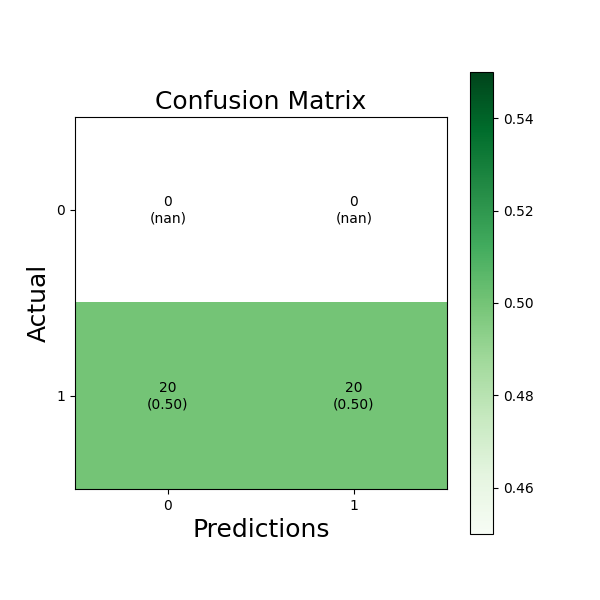
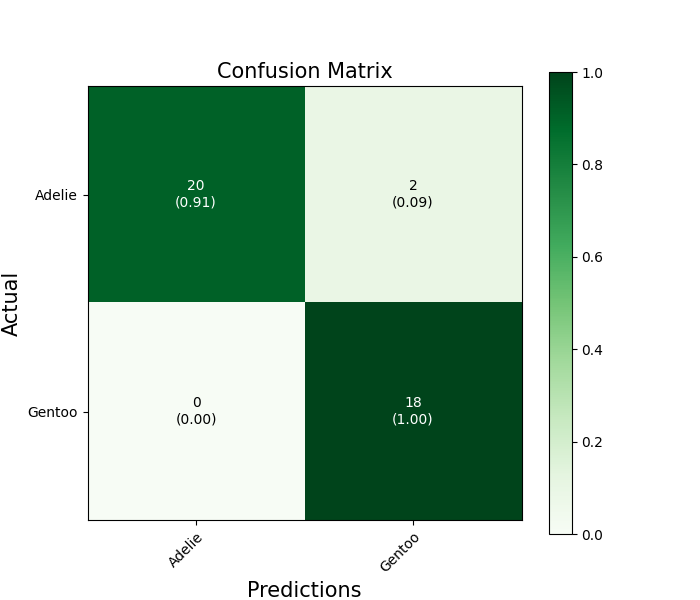
Updated generate_conf_mat function

diff --git a/tasks/task3/network.py b/tasks/task3/network.py
@@ -1,6 +1,6 @@
 import numpy as np
 
-from layer import *
+from task3.layer import *
 
 
 class Network:
@@ -32,14 +32,12 @@ class Network:
 
                 # Forward step
 
-                # Layer FNet
-                f_net = list()
+                # FNet first layer
+                f_net = self.layers_array[0].forward(row)
+
                 # Iterate the layers
-                for j in range(len(self.layers_array)):
-                    if j == 0:
-                        output = self.layers_array[j].forward(row)
-                    else:
-                        output = self.layers_array[j].forward(f_net)
+                for j in range(1, len(self.layers_array)):
+                    f_net = self.layers_array[j].forward(f_net)
 
                 # Backward step
 
@@ -55,48 +53,54 @@ class Network:
                     else:
                         target.append(0)
 
-                # Sigma list
-                sigma = list()
-
+                # Reversing layers to execute the backpropagation
                 layers_reversed = self.layers_array[::-1]
-                output, weights = layers_reversed[0].backword(1, 1, target)
 
-                for j in range(len(layers_reversed)):
-                    output, weights = layers_reversed[j].backword(sigma, weights, target)
+                # Last layer
+                sigma, weights = layers_reversed[0].backword(1, 1, target)
 
-                # update step
-                output = list()
-                for j in range(len(self.layers_array)):
-                    if j == 0:
-                        output = self.layers_array[j].update(row, self.rate)
-                        output.append(self.bias)
-                    else:
-                        output = self.layers_array[j].update(output, self.rate)
-                        output.append(self.bias)
+                for j in range(1, len(layers_reversed)):
+                    sigma, weights = layers_reversed[j].backword(sigma, weights, target)
+
+                # Update step
+
+                # First layer
+                f_net = self.layers_array[0].update(row, self.rate)
+                f_net.append(self.bias)
+
+                for j in range(1, len(self.layers_array)):
+                    f_net = self.layers_array[j].update(f_net, self.rate)
+                    f_net.append(self.bias)
 
     def testing(self, test):
         cnt = 0
-        for count in range(0, len(test)):
-            features = test.iloc[count][1:]
-            features = features.tolist()
-            # forward step
-            output = list()
-            for i in range(len(self.layers_array)):
-                if i == 0:
-                    output = self.layers_array[i].forward(features)
-                else:
-                    output = self.layers_array[i].forward(output)
+
+        classes = ['Adelie', 'Gentoo', 'Chinstrap']
+
+        conf_matrix = np.zeros([3, 3], dtype=int)
+
+        for count in range(len(test)):
+            row = test.iloc[count][1:].tolist()
+
+            # Forward step
+
+            f_net = self.layers_array[0].forward(row)
+            for i in range(1, len(self.layers_array)):
+                f_net = self.layers_array[i].forward(f_net)
+
                 if i == self.layers_num - 1:
                     mx = -1
                     idx = -1
-                    for j in range(len(output)):
-                        if output[j] > mx:
-                            mx = output[j]
+                    for j in range(len(f_net)):
+                        if f_net[j] > mx:
+                            mx = f_net[j]
                             idx = j
-                    if test['species'][count] == 'Adelie' and idx == 0:
+
+                    specie = classes.index(test['species'][count])
+                    conf_matrix[specie][idx] += 1
+
+                    if specie == idx:
                         cnt += 1
-                    elif test['species'][count] == 'Gentoo' and idx == 1:
-                        cnt += 1
-                    elif test['species'][count] == 'Chinstrap' and idx == 2:
-                        cnt += 1
-        return cnt / len(test)
+
+        acc = cnt / len(test)
+        return conf_matrix, classes, acc

diff --git a/tasks/utils/visualization.py b/tasks/utils/visualization.py
@@ -1,27 +1,24 @@
-import numpy as np
-import seaborn as sea
-import matplotlib.pyplot as plt
-
-from mlxtend.plotting import plot_confusion_matrix
-
 import warnings
+
+import matplotlib.pyplot as plt
+import seaborn as sea
+from mlxtend.plotting import plot_confusion_matrix
 
 warnings.filterwarnings("ignore")
 
 
-def generate_conf_mat(tp, tn, fp, fn):
-    conf_matrix = np.array([[tp, fp], [fn, tn]])
-
-    fig, ax = plot_confusion_matrix(conf_mat=conf_matrix,
-                                    figsize=(6, 6),
+def generate_conf_mat(mat, classes):
+    fig, ax = plot_confusion_matrix(conf_mat=mat,
+                                    class_names=classes,
+                                    figsize=(7, 7),
                                     cmap=plt.cm.Greens,
                                     show_absolute=True,
                                     show_normed=True,
                                     colorbar=True)
 
-    plt.xlabel('Predictions', fontsize=18)
-    plt.ylabel('Actual', fontsize=18)
-    plt.title('Confusion Matrix', fontsize=18)
+    plt.xlabel('Predictions', fontsize=15)
+    plt.ylabel('Actual', fontsize=15)
+    plt.title('Confusion Matrix', fontsize=15)
     plt.savefig('conf_mat.png')
 
 

diff --git a/tasks/gui/gui_output.py b/tasks/gui/gui_output.py
@@ -2,16 +2,17 @@ import tkinter as tk
 import tkinter.ttk as ttk
 
 from PIL import Image, ImageTk
+
 from utils.visualization import generate_conf_mat
 
 
-def show_output(tp, tn, fp, fn, acc):
+def show_output(conf_matrix, classes, acc):
     # Creating tkinter window
     output_window = tk.Tk()
     output_window.title('Output')
 
-    w = 900  # width for the Tk root
-    h = 800  # height for the Tk root
+    w = 1000  # width for the Tk root
+    h = 900  # height for the Tk root
 
     # get screen width and height
     ws = output_window.winfo_screenwidth()  # width of the screen
@@ -36,11 +37,11 @@ def show_output(tp, tn, fp, fn, acc):
     ttk.Label(output_window, text=acc_txt,
               font=("Roboto", 12)).grid(column=2, row=5, padx=10, pady=25)
 
-    generate_conf_mat(tp, tn, fp, fn)
+    generate_conf_mat(conf_matrix, classes)
 
     # Display confusion matrix image
     img = Image.open('conf_mat.png')
-    display = ImageTk.PhotoImage(master=output_window, width=200, height=200, image=img)
+    display = ImageTk.PhotoImage(master=output_window, width=300, height=200, image=img)
 
     # Image Label
     ttk.Label(output_window,

diff --git a/tasks/task3/neuron.py b/tasks/task3/neuron.py
@@ -1,7 +1,6 @@
-import math
-
-from layer import *
+from task3.layer import *
 import numpy as np
+import math
 
 
 def activation_function(activation_choice, result):
@@ -15,9 +14,9 @@ class Neurons:
     net = 0
     sigma_back = 0
 
-    def calc_net(self, input, weight, activation_chocie):
-        result = np.dot(input, np.transpose(weight))
-        self.net = activation_function(activation_chocie, result)
+    def calc_net(self, m_input, weight, activation_choice):
+        result = np.dot(m_input, np.transpose(weight))
+        self.net = activation_function(activation_choice, result)
 
     def calc_sigma_output_layer(self, desired, activation_choice):
         if activation_choice == 1:

diff --git a/tasks/task3/backpropagation.py b/tasks/task3/backpropagation.py
@@ -1,6 +1,7 @@
 from utils.preprocessing import prepare_data, split
 import pandas as pd
-from network import *
+from task3.network import Network
+from gui.gui_output import show_output
 
 
 def run_backpropagation(layers, m_neurons, epochs, active, bias, rate):
@@ -19,5 +20,5 @@ def run_backpropagation(layers, m_neurons, epochs, active, bias, rate):
     testing_df = testing_df.sample(frac=1, random_state=1, ignore_index=True)
     network1 = Network(rate, epochs, active, bias, layers, m_neurons)
     network1.learning(training_df)
-    acc = network1.testing(testing_df)
-    print(acc)
+    mat, classes, acc = network1.testing(testing_df)
+    show_output(mat, classes, acc)

diff --git a/tasks/task1/perceptron.py b/tasks/task1/perceptron.py
@@ -1,3 +1,5 @@
+import numpy as np
+
 from utils import preprocessing
 from gui.gui_output import show_output
 
@@ -89,6 +91,10 @@ def run_perceptron(class1, class2, x1, x2, ep, bs, rate):
     acc = cnt / len(testing_df)
 
     # visualization.visualize(test1, test2, x1, x2, w0, w1, w2)
-    show_output(tp, tn, fp, fn, acc)
+    conf_matrix = np.array([[tp, fp],
+                            [fn, tn]])
+
+    classes = [class1, class2]
+    show_output(conf_matrix, classes, acc)
 
     return acc

diff --git a/tasks/task3/layer.py b/tasks/task3/layer.py
@@ -1,5 +1,5 @@
 import numpy as np
-from neuron import *
+from task3.neuron import *
 
 
 class Layer:

diff --git a/tasks/task1/main.py b/tasks/task1/main.py
@@ -1,5 +1,3 @@
 from gui.gui_input import GUI
 
 gui = GUI(task=1)
-
-
